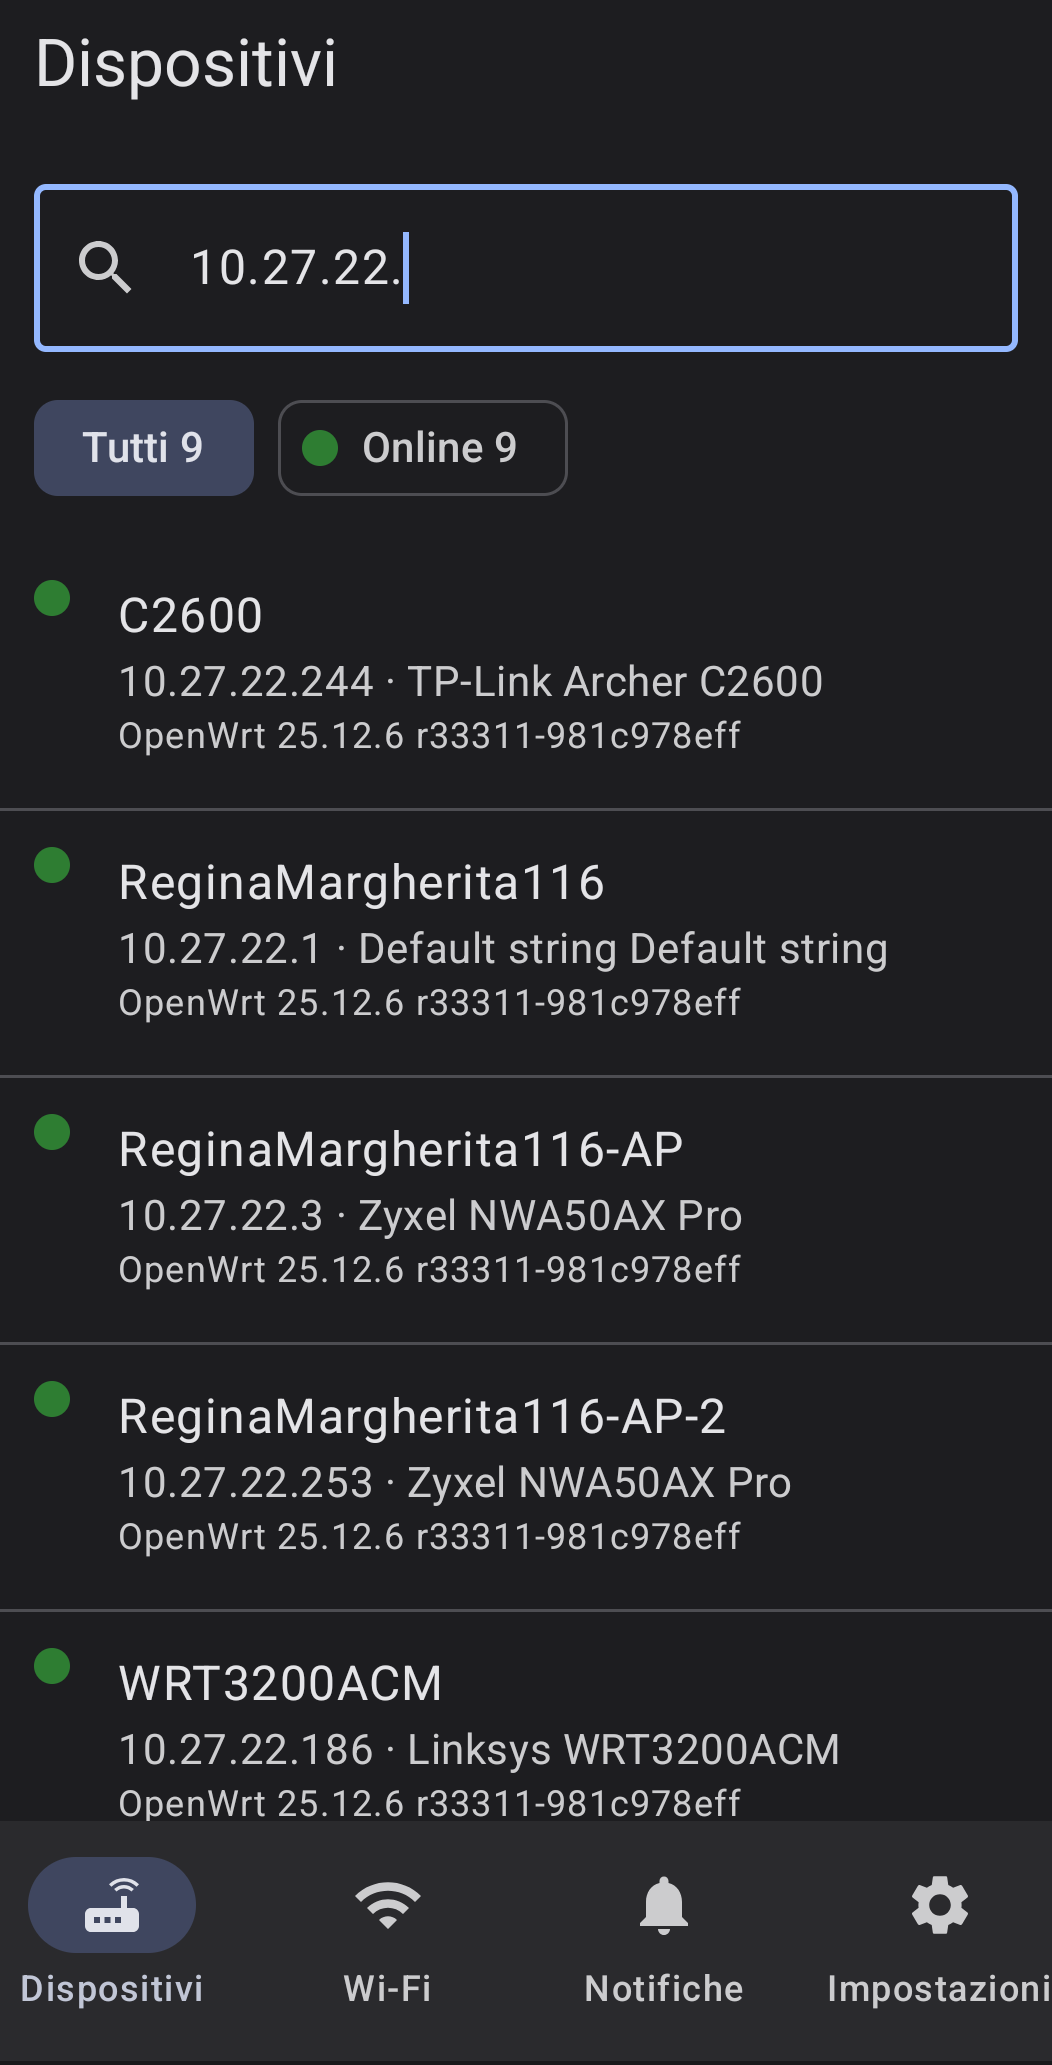
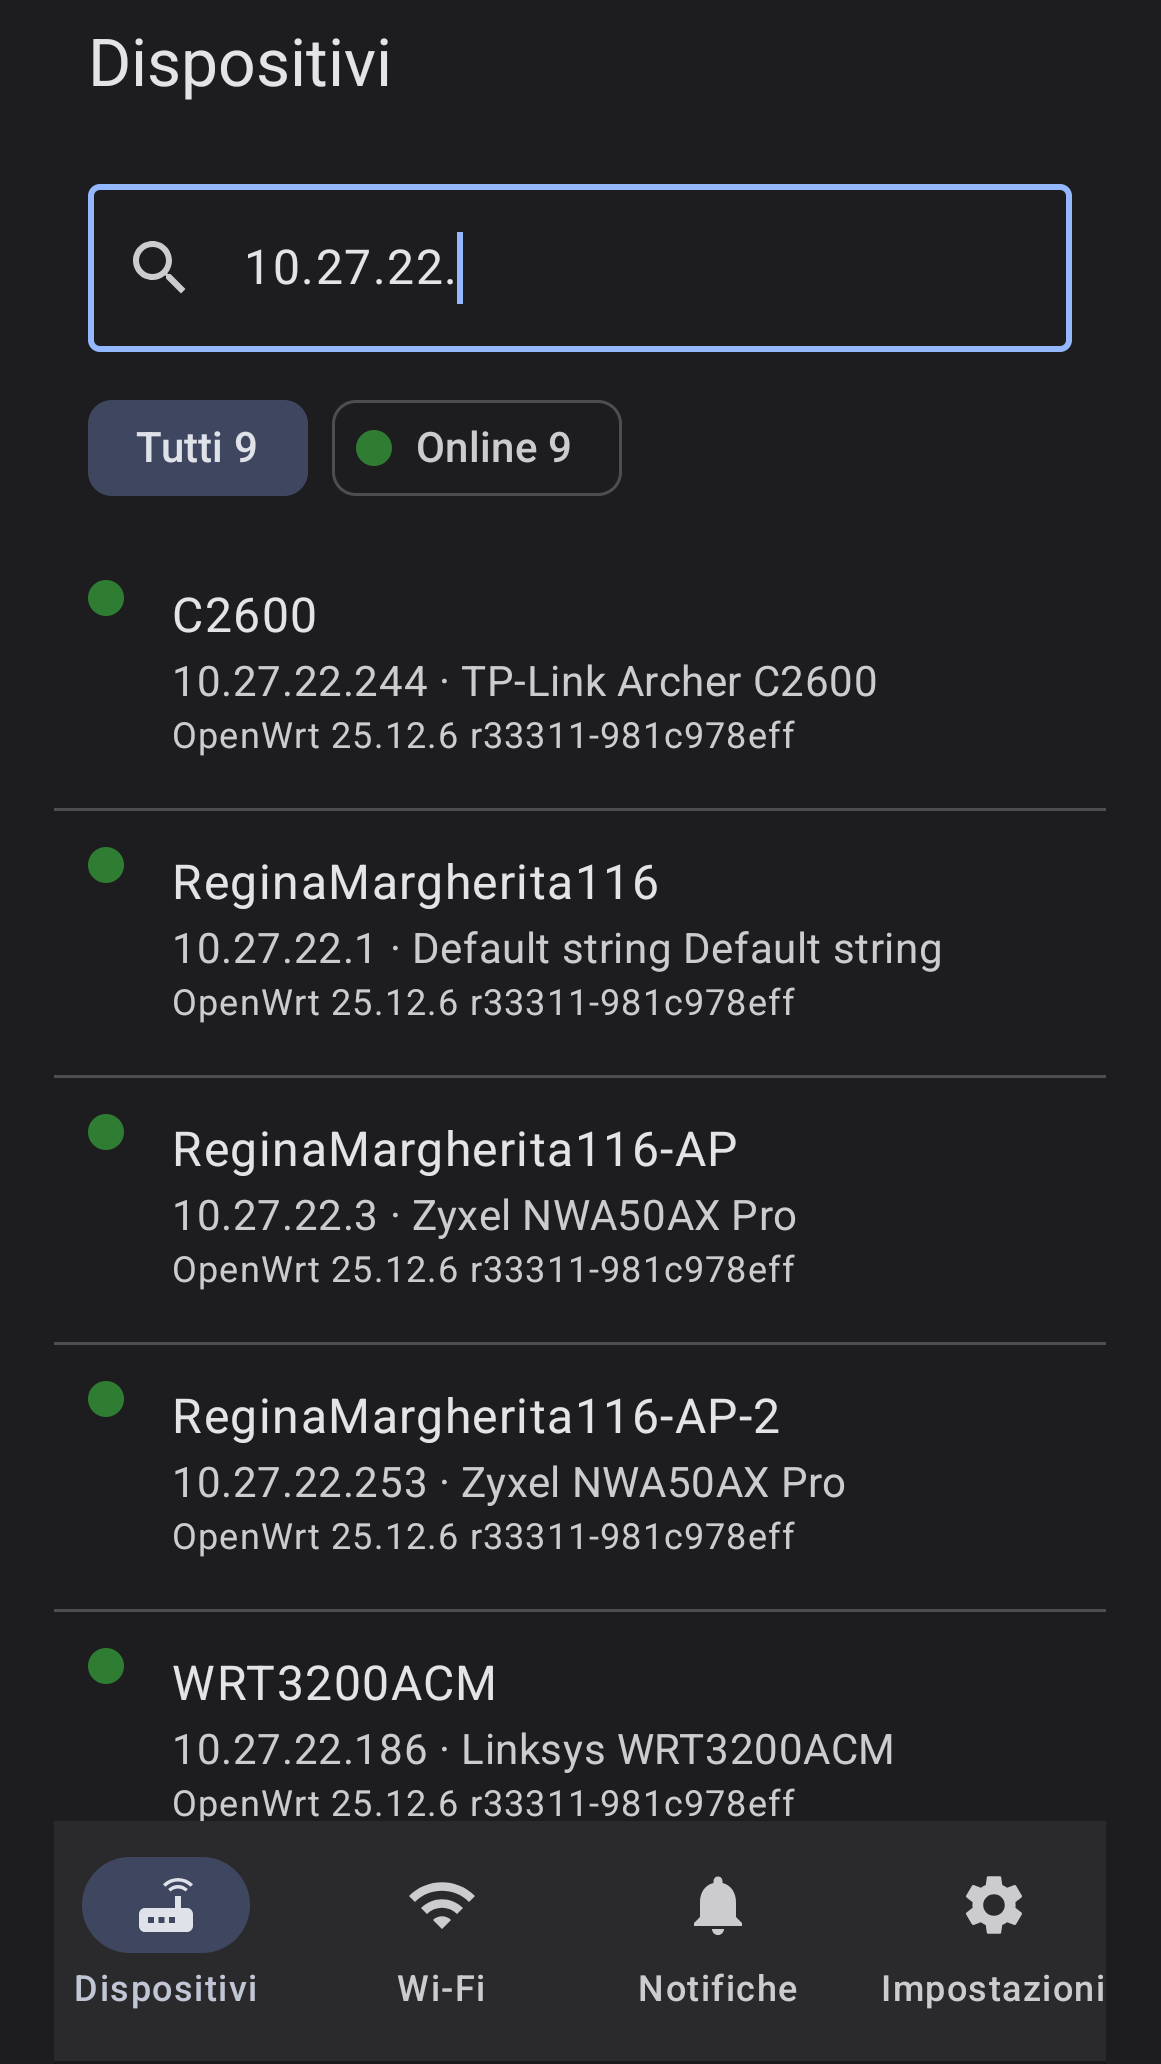
openwisp-android 0.1.3 (#10)
* openwisp-android 0.1.3: prima versione per Google Play

* Screenshot di Play in 9:16 esatto (1161x2064): Play rifiuta altre proporzioni

diff --git a/CHANGELOG.md b/CHANGELOG.md
@@ -1,5 +1,12 @@
 # Changelog
 
+## 0.1.3
+
+- First release for Google Play: store listing, graphics and screenshots in
+  `fastlane/metadata/android`, privacy policy published with the guide.
+- Removed the `FOREGROUND_SERVICE` permission added by WorkManager: the app
+  never runs work in the foreground.
+
 ## 0.1.2
 
 - Release workflow: read the signing certificate with the output of both
